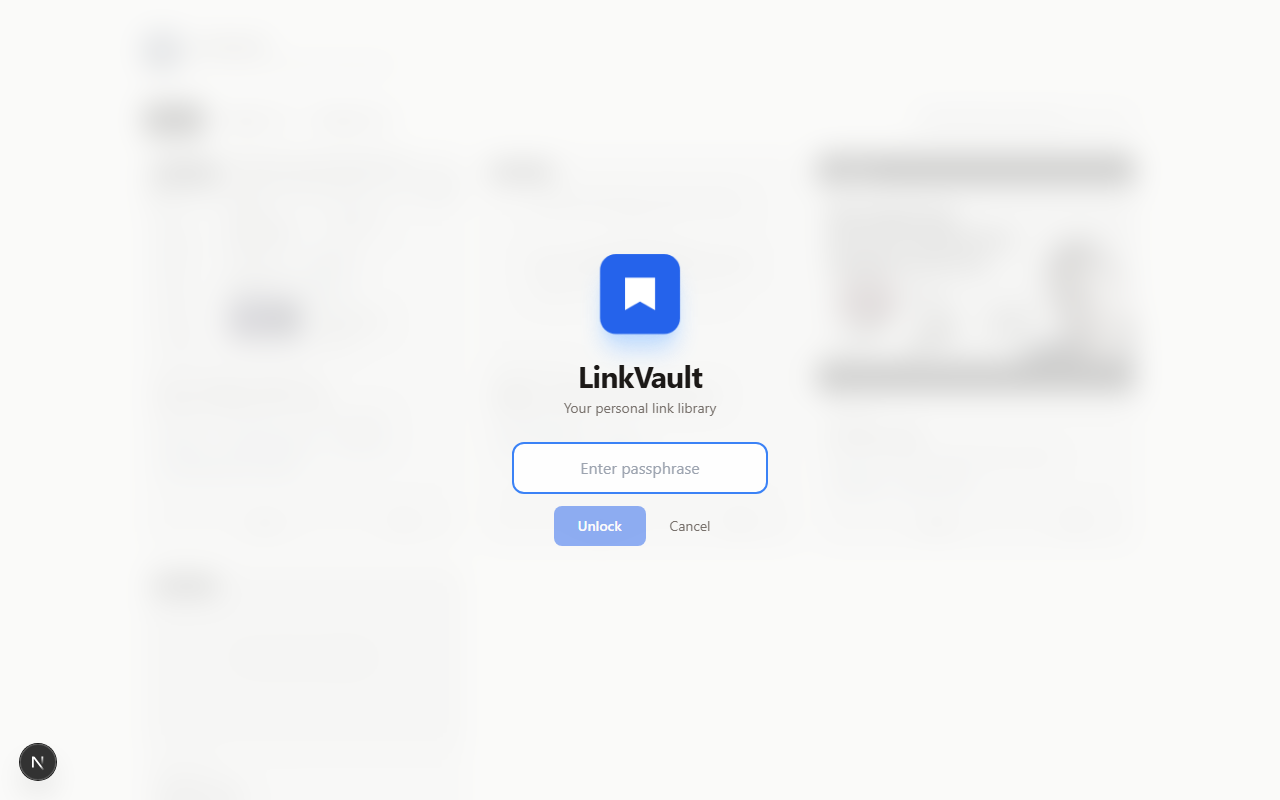
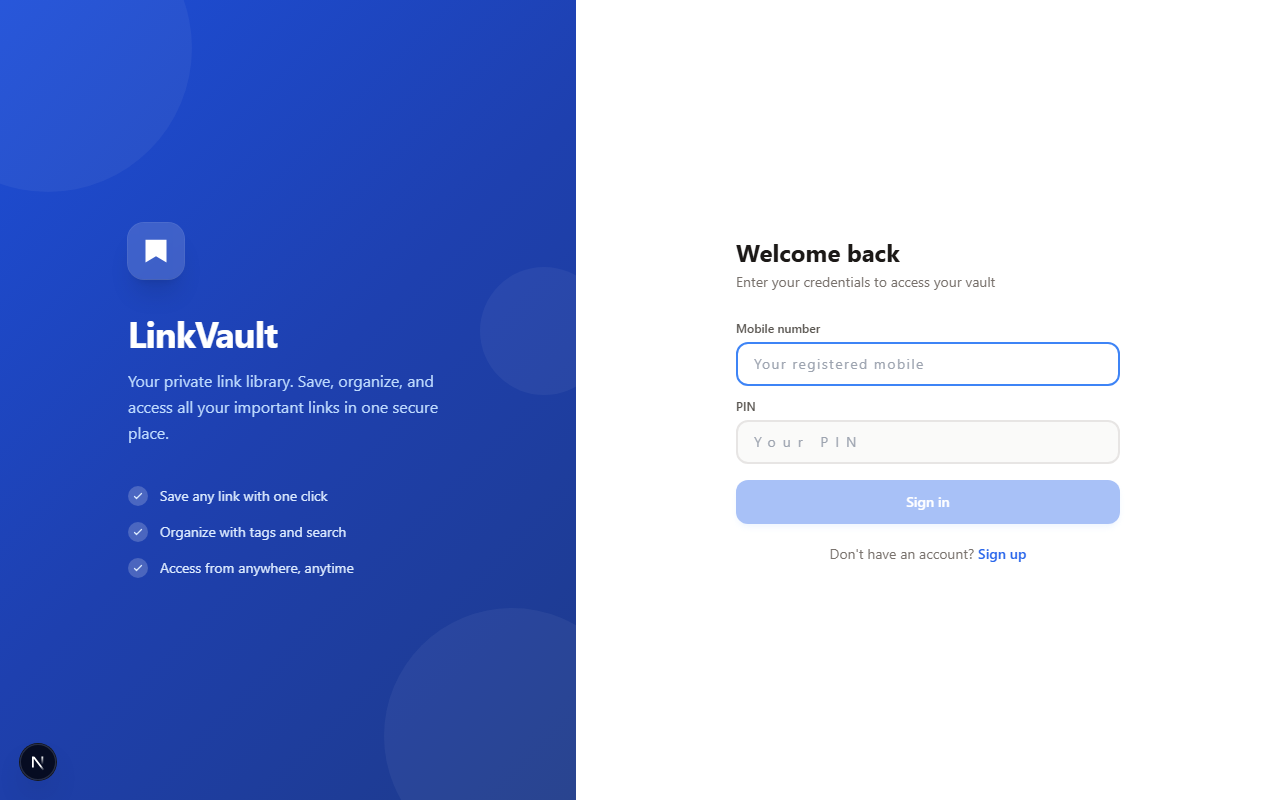
Refactor code structure for improved readability and maintainability

diff --git a/README.md b/README.md
@@ -5,15 +5,15 @@ A personal link-saving site. Paste a URL, it fetches the thumbnail, title, and d
 - **Stack:** Next.js 14 (App Router, Edge runtime), Tailwind, TypeScript
 - **Database:** Neon (serverless Postgres, free tier)
 - **Hosting:** Vercel (free tier)
-- **Auth:** single shared password (only you can add/edit/delete; viewing is public)
+- **Auth:** mobile number + PIN per user (multi-user; each person sees only their own links)
 
 ---
 
 ## Screenshots
 
-| Landing | Sign in |
+| Sign up | Sign in |
 |---|---|
-| ![Landing screen with sign-in button](public/screenshots/landing.png) | ![Password input screen](public/screenshots/sign-in.png) |
+| ![Split-panel signup screen](public/screenshots/signup.png) | ![Split-panel sign-in screen](public/screenshots/sign-in.png) |
 
 **Dashboard — after signing in**
 ![Main dashboard showing saved links grid](public/screenshots/home.png)
@@ -22,6 +22,7 @@ A personal link-saving site. Paste a URL, it fetches the thumbnail, title, and d
 ![Individual link card with thumbnail and action buttons](public/screenshots/link-card.png)
 
 > Screenshots generated with `node scripts/screenshot.mjs` (requires the dev server to be running).
+> To also capture the dashboard: `MOBILE=<number> PIN=<pin> node scripts/screenshot.mjs`
 
 ## What you need
 
@@ -84,10 +85,10 @@ That's it — your site is live. Share the URL with anyone; only you can sign in
 
 ## How it works
 
-- The page is server-rendered with `force-dynamic`, so saved links appear immediately after adding.
-- `POST /api/links` accepts a URL, then on the server fetches the page HTML and parses `<meta property="og:*">` tags (title, description, image, site_name).
-- YouTube is special-cased so thumbnails always work, even if the page can't be scraped.
-- The admin password lives in `process.env.ADMIN_PASSWORD`. The browser stores it in `sessionStorage` after you sign in once, and sends it as the `x-admin-password` header on write requests. All read endpoints are public.
+- `POST /api/links` accepts a URL, fetches the page HTML on the server, and parses `<meta property="og:*">` tags (title, description, image, site_name).
+- YouTube is special-cased so thumbnails always work even if the page can't be scraped.
+- Auth uses mobile number + PIN. After signing in, the session token is stored in `sessionStorage` and sent as the `x-session-token` header on every request. Each user's links are scoped by `user_id` in the database.
+- Any number of users can register with different mobile numbers. Each person sees only their own saved links.
 
 ## Files
 
@@ -115,7 +116,6 @@ scripts/
 
 - **Add more video hosts** to the auto-detection: edit the `VIDEO_HOSTS` array in `lib/metadata.ts`.
 - **Change the look:** colours are in `tailwind.config.js`.
-- **Make it multi-user later:** swap `ADMIN_PASSWORD` for proper auth (Clerk, Auth.js with a `links.user_id` column). The schema already supports a clean migration.
 
 ## Troubleshooting
 